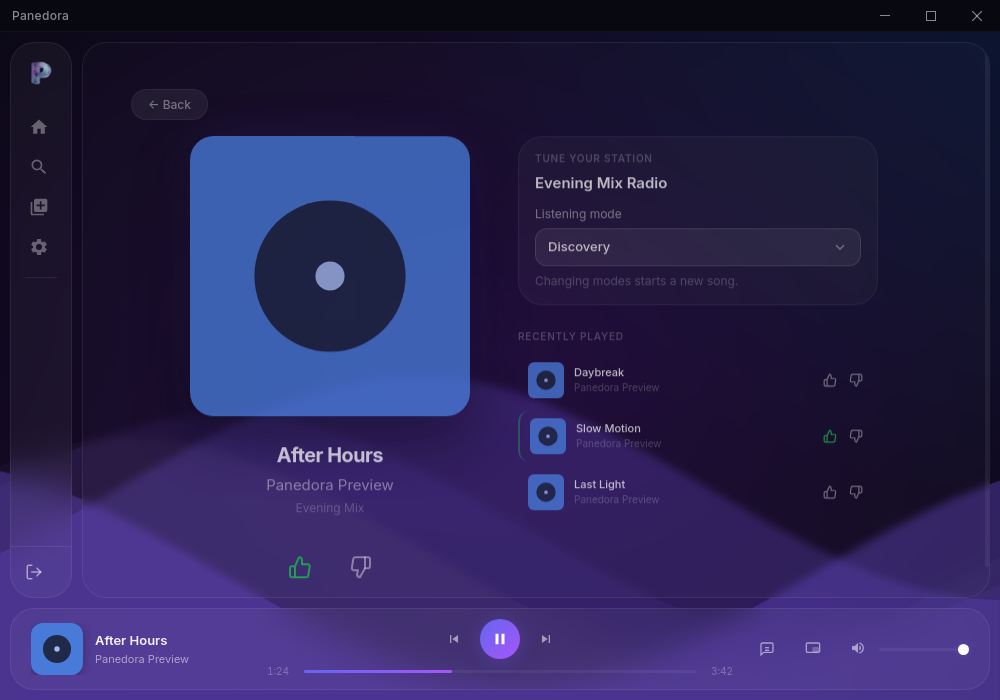
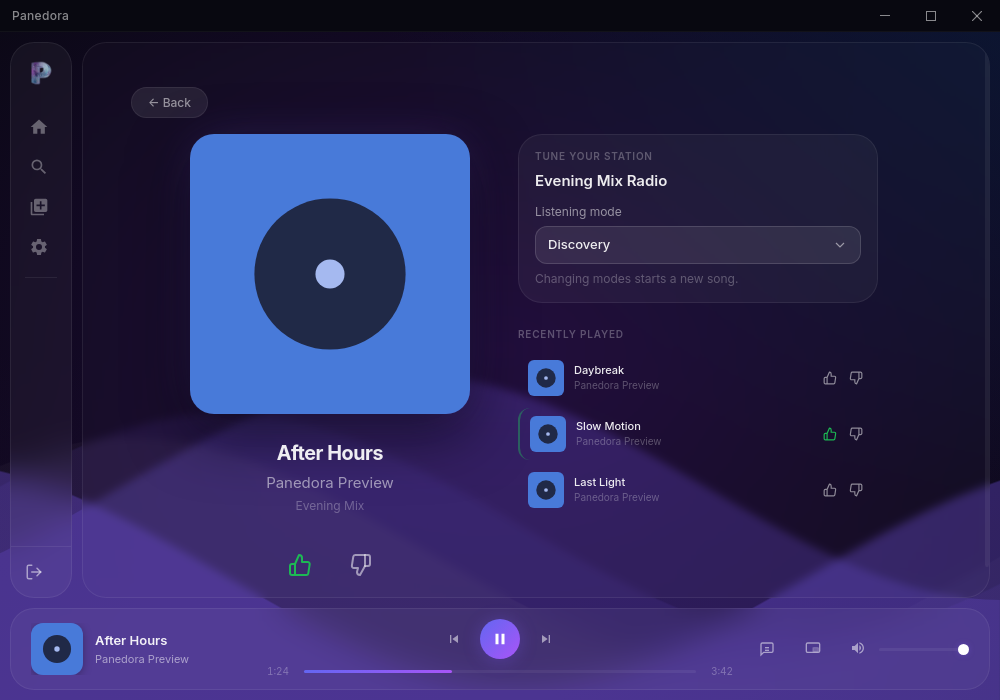
Show every theme in the website preview

diff --git a/docs/index.html b/docs/index.html
@@ -18,7 +18,7 @@
     <link rel="apple-touch-icon" href="favicon.png">
     <link rel="preload" href="assets/InterVariable.woff2" as="font" type="font/woff2" crossorigin>
     <link href="assets/boxicons.min.css" rel="stylesheet">
-    <link rel="stylesheet" href="styles.css?v=6">
+    <link rel="stylesheet" href="styles.css?v=7">
 </head>
 <body>
     <a class="skip-link" href="#main">Skip to content</a>
@@ -94,13 +94,19 @@
             <div class="theme-comparison" aria-labelledby="theme-preview-title">
                 <div class="theme-preview-heading">
                     <h3 id="theme-preview-title">See the themes in the app</h3>
-                    <p>Three of Panedora’s built-in themes, shown in the same player view.</p>
+                    <p>All nine built-in themes, shown in the same player view.</p>
                 </div>
                 <fieldset class="theme-picker" hidden>
                     <legend class="sr-only">Choose a theme preview</legend>
                     <label><input type="radio" name="theme-preview" value="midnight" aria-controls="theme-preview-midnight" checked><span class="theme-color theme-midnight" aria-hidden="true"></span> Midnight Violet</label>
                     <label><input type="radio" name="theme-preview" value="ocean" aria-controls="theme-preview-ocean"><span class="theme-color theme-ocean" aria-hidden="true"></span> Deep Ocean</label>
                     <label><input type="radio" name="theme-preview" value="emerald" aria-controls="theme-preview-emerald"><span class="theme-color theme-emerald" aria-hidden="true"></span> Emerald Forest</label>
+                    <label><input type="radio" name="theme-preview" value="sunset" aria-controls="theme-preview-sunset"><span class="theme-color theme-sunset" aria-hidden="true"></span> Sunset Blaze</label>
+                    <label><input type="radio" name="theme-preview" value="rose" aria-controls="theme-preview-rose"><span class="theme-color theme-rose" aria-hidden="true"></span> Rose Quartz</label>
+                    <label><input type="radio" name="theme-preview" value="arctic" aria-controls="theme-preview-arctic"><span class="theme-color theme-arctic" aria-hidden="true"></span> Arctic Frost</label>
+                    <label><input type="radio" name="theme-preview" value="neon" aria-controls="theme-preview-neon"><span class="theme-color theme-neon" aria-hidden="true"></span> Neon Cyber</label>
+                    <label><input type="radio" name="theme-preview" value="classic" aria-controls="theme-preview-classic"><span class="theme-color theme-classic" aria-hidden="true"></span> Classic Dark</label>
+                    <label><input type="radio" name="theme-preview" value="adaptive" aria-controls="theme-preview-adaptive"><span class="theme-color theme-adaptive" aria-hidden="true"></span> Adaptive (Dynamic)</label>
                 </fieldset>
                 <div class="theme-panels">
                     <figure class="theme-panel" id="theme-preview-midnight" data-theme-preview="midnight">
@@ -115,8 +121,32 @@
                         <img src="assets/theme-emerald.png" alt="The same Panedora player in Emerald Forest, with green accents and waves" width="1000" height="700" loading="lazy">
                         <figcaption><span>Emerald Forest</span><span>Now Playing</span></figcaption>
                     </figure>
+                    <figure class="theme-panel" id="theme-preview-sunset" data-theme-preview="sunset">
+                        <img src="assets/theme-sunset.png" alt="The same Panedora player in Sunset Blaze, with orange accents and waves" width="1000" height="700" loading="lazy">
+                        <figcaption><span>Sunset Blaze</span><span>Now Playing</span></figcaption>
+                    </figure>
+                    <figure class="theme-panel" id="theme-preview-rose" data-theme-preview="rose">
+                        <img src="assets/theme-rose.png" alt="The same Panedora player in Rose Quartz, with pink accents and waves" width="1000" height="700" loading="lazy">
+                        <figcaption><span>Rose Quartz</span><span>Now Playing</span></figcaption>
+                    </figure>
+                    <figure class="theme-panel" id="theme-preview-arctic" data-theme-preview="arctic">
+                        <img src="assets/theme-arctic.png" alt="The same Panedora player in Arctic Frost, with icy blue accents and waves" width="1000" height="700" loading="lazy">
+                        <figcaption><span>Arctic Frost</span><span>Now Playing</span></figcaption>
+                    </figure>
+                    <figure class="theme-panel" id="theme-preview-neon" data-theme-preview="neon">
+                        <img src="assets/theme-neon.png" alt="The same Panedora player in Neon Cyber, with cyan accents and purple waves" width="1000" height="700" loading="lazy">
+                        <figcaption><span>Neon Cyber</span><span>Now Playing</span></figcaption>
+                    </figure>
+                    <figure class="theme-panel" id="theme-preview-classic" data-theme-preview="classic">
+                        <img src="assets/theme-classic.png" alt="The same Panedora player in Classic Dark, with a charcoal background and green accents" width="1000" height="700" loading="lazy">
+                        <figcaption><span>Classic Dark</span><span>Now Playing</span></figcaption>
+                    </figure>
+                    <figure class="theme-panel" id="theme-preview-adaptive" data-theme-preview="adaptive">
+                        <img src="assets/theme-adaptive.png" alt="The same Panedora player in Adaptive, with its blue accent taken from the sample album cover" width="1000" height="700" loading="lazy">
+                        <figcaption><span>Adaptive (Dynamic)</span><span>From album art</span></figcaption>
+                    </figure>
                 </div>
-                <p class="preview-note">App previews use sample song details. Adaptive can also choose colors from your album artwork.</p>
+                <p class="preview-note">App previews use sample song details. Adaptive takes its accent color from the album artwork; this example uses the cover shown.</p>
             </div>
             <div class="feature-list">
                 <article><span class="feature-number" aria-hidden="true">01</span><h3>Tune Your Station</h3><p>Switch to available Pandora modes like Discovery or Deep Cuts from Now Playing.</p></article>

diff --git a/tests/electron-player-smoke.js b/tests/electron-player-smoke.js
@@ -1328,6 +1328,7 @@ app.whenReady().then(async () => {
     const preview = new BrowserWindow({ width: 680, height: 80, frame: false, transparent: true,
         backgroundColor: '#00000000', show: false,
         webPreferences: { partition: 'website-previews', contextIsolation: true, nodeIntegration: false } });
+    const previewThemes = [];
     try {
         await preview.loadFile(previewFile);
         const previewRun = script => preview.webContents.executeJavaScript(script);
@@ -1376,7 +1377,8 @@ app.whenReady().then(async () => {
                 animation.pause(); animation.currentTime = 2000;
             }`);
         await waitFor(() => previewRun("Array.from(document.querySelectorAll('#np-large-art, .history-art')).every(image => image.naturalWidth > 0)"), 'theme preview artwork');
-        for (const theme of await previewRun('Object.keys(THEMES)')) {
+        previewThemes.push(...await previewRun('Object.entries(THEMES).map(([id, theme]) => ({ id, name: theme.name }))'));
+        for (const { id: theme } of previewThemes) {
             await previewRun(`applyTheme(${JSON.stringify(theme)}); document.fonts.ready`);
             if (theme === 'adaptive') {
                 await waitFor(() => previewRun('window._lastExtractedArt === AppState.playerState.coverArt'),
@@ -1410,8 +1412,10 @@ app.whenReady().then(async () => {
     await siteRun("document.getElementById('discord').scrollIntoView({behavior:'instant'})");
     await captureSite('website-discord');
     await siteRun("document.getElementById('customization').scrollIntoView({behavior:'instant'})");
+    assert.deepEqual(await siteRun("Array.from(document.querySelectorAll('input[name=\"theme-preview\"]'), choice => ({ id: choice.value, name: choice.labels[0].textContent.trim() }))"),
+        previewThemes, 'Website previews include every app theme in the same order');
     const themeImageHeight = await siteRun("document.querySelector('[data-theme-preview=midnight] img').getBoundingClientRect().height");
-    for (const theme of ['midnight', 'ocean', 'emerald']) {
+    for (const { id: theme } of previewThemes) {
         await siteRun(`document.querySelector('input[name="theme-preview"][value="${theme}"]').click()`);
         assert.equal(await siteRun(`document.querySelector('[data-theme-preview="${theme}"]').hidden`), false,
             'The selected theme is shown');
@@ -1426,6 +1430,8 @@ app.whenReady().then(async () => {
         await waitFor(() => siteRun(`innerWidth === ${width}`), 'website viewport ' + width);
         await siteRun('window.scrollTo({top: 0, behavior: "instant"})');
         await captureSite('website-width-' + width);
+        await siteRun("document.getElementById('customization').scrollIntoView({behavior:'instant'})");
+        await captureSite('website-themes-width-' + width);
     }
     site.setContentSize(430, 900);
     await waitFor(() => siteRun('innerWidth === 430'), 'website mobile viewport');

diff --git a/docs/styles.css b/docs/styles.css
@@ -94,7 +94,7 @@ a, summary, label { -webkit-tap-highlight-color: transparent; }
 .customization-content { display: grid; grid-template-columns: minmax(0, 1.45fr) minmax(260px, .85fr); gap: 48px; margin-top: 34px; align-items: start; }
 .theme-comparison { min-width: 0; }
 .theme-preview-heading p { margin-top: 9px; font-size: .9rem; }
-.theme-picker { display: flex; flex-wrap: wrap; gap: 10px; padding: 0; margin: 22px 0; border: 0; }
+.theme-picker { display: grid; grid-template-columns: repeat(3, minmax(0, 1fr)); gap: 10px; padding: 0; margin: 22px 0; border: 0; }
 .theme-picker[hidden], .theme-panel[hidden] { display: none; }
 .theme-picker label { position: relative; display: inline-flex; align-items: center; gap: 9px; min-height: 44px; padding: 9px 14px; border: 1px solid var(--border); border-radius: 6px; color: var(--muted); font-size: .83rem; cursor: pointer; }
 .theme-picker label:has(input:checked) { border-color: var(--accent); color: var(--text); background: #b4a8f00c; }
@@ -104,6 +104,12 @@ a, summary, label { -webkit-tap-highlight-color: transparent; }
 .theme-midnight { background: #7c5bf5; }
 .theme-ocean { background: #3b82f6; }
 .theme-emerald { background: #10b981; }
+.theme-sunset { background: #f97316; }
+.theme-rose { background: #ec4899; }
+.theme-arctic { background: #67e8f9; }
+.theme-neon { background: #22d3ee; }
+.theme-classic { background: #1db954; }
+.theme-adaptive { background: conic-gradient(#f97316, #ec4899, #3b82f6, #10b981, #f97316); }
 .theme-panel { margin-top: 22px; }
 .theme-panel > img { width: 100%; border: 1px solid var(--border); border-radius: 9px; }
 .theme-panel > figcaption { display: flex; justify-content: space-between; gap: 16px; padding-top: 11px; color: var(--muted); font-size: .79rem; }
@@ -184,7 +190,7 @@ code { background: #ffffff08; color: #d8d2e8; border-radius: 3px; padding: 2px 5
     .discord-layout, .about-layout, .privacy-layout { grid-template-columns: 1fr; gap: 35px; }
     .activity-card { max-width: 370px; padding: 20px; }
     .feature-list { grid-template-columns: 1fr; margin-top: 30px; }
-    .theme-picker { gap: 8px; }
+    .theme-picker { grid-template-columns: repeat(2, minmax(0, 1fr)); gap: 8px; }
     .theme-picker label { padding-inline: 11px; font-size: .76rem; }
     .theme-panel > img { border-radius: 6px; }
     .feature-list article { padding-block: 24px; }

diff --git a/tests/site-downloads.test.js b/tests/site-downloads.test.js
@@ -61,8 +61,10 @@ test('theme choices reveal the matching app preview and leave downloads working'
     const visible = () => [...document.querySelectorAll('[data-theme-preview]')]
         .filter(panel => !panel.hidden).map(panel => panel.dataset.themePreview);
     assert.deepEqual(visible(), ['midnight']);
-    for (const value of ['ocean', 'emerald', 'midnight']) {
-        const choice = document.querySelector(`input[name="theme-preview"][value="${value}"]`);
+    const choices = [...document.querySelectorAll('input[name="theme-preview"]')];
+    assert.equal(choices.length, 9, 'All eight fixed themes and Adaptive have previews');
+    for (const choice of [...choices.slice(1), choices[0]]) {
+        const value = choice.value;
         choice.checked = true;
         choice.dispatchEvent(new s.window.Event('change', { bubbles: true }));
         assert.deepEqual(visible(), [value]);
